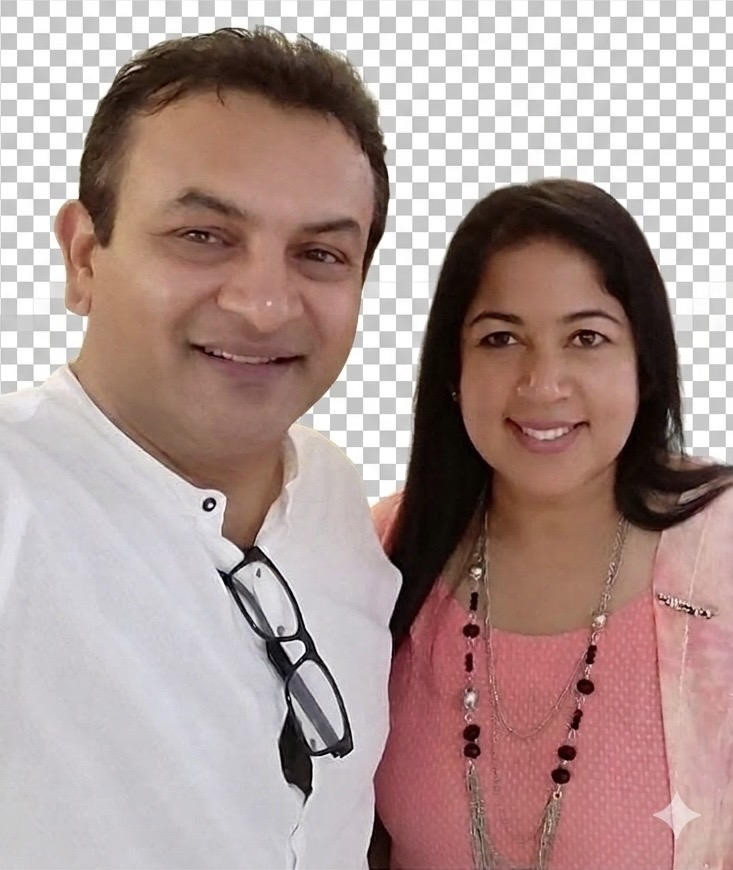
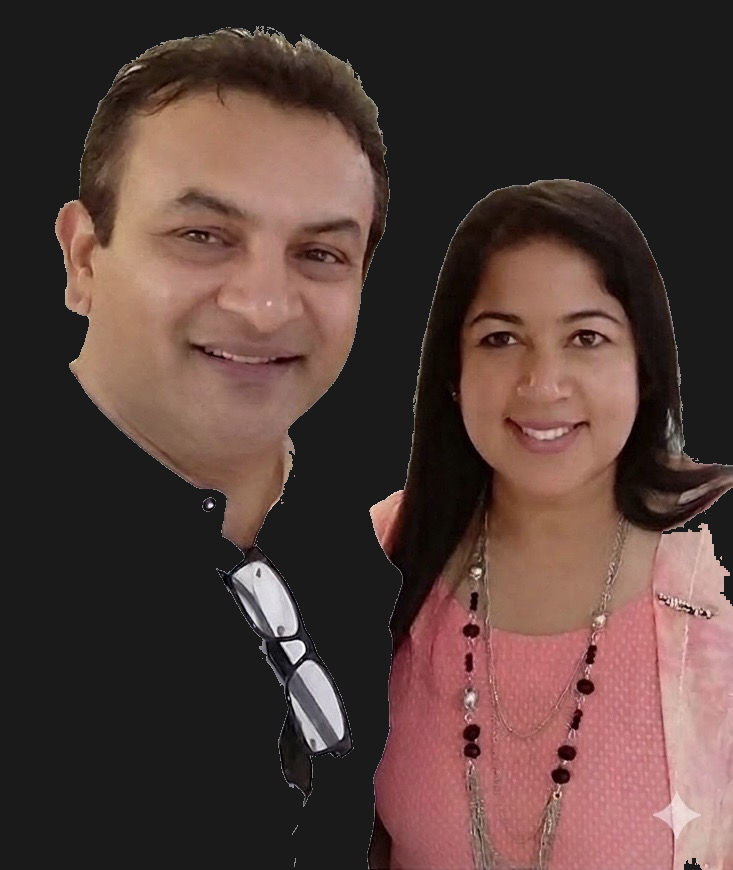
Add files via upload

diff --git a/index.html b/index.html
@@ -30,8 +30,8 @@
             overflow: hidden;
             background-color: #1a1a1a;
             background-image: url('hero_photo.png');
-            background-size: 55% auto;
-            background-position: center top;
+            background-size: 50% auto;
+            background-position: 75% top;
             background-repeat: no-repeat;
         }
         .hero-fullscreen::before {